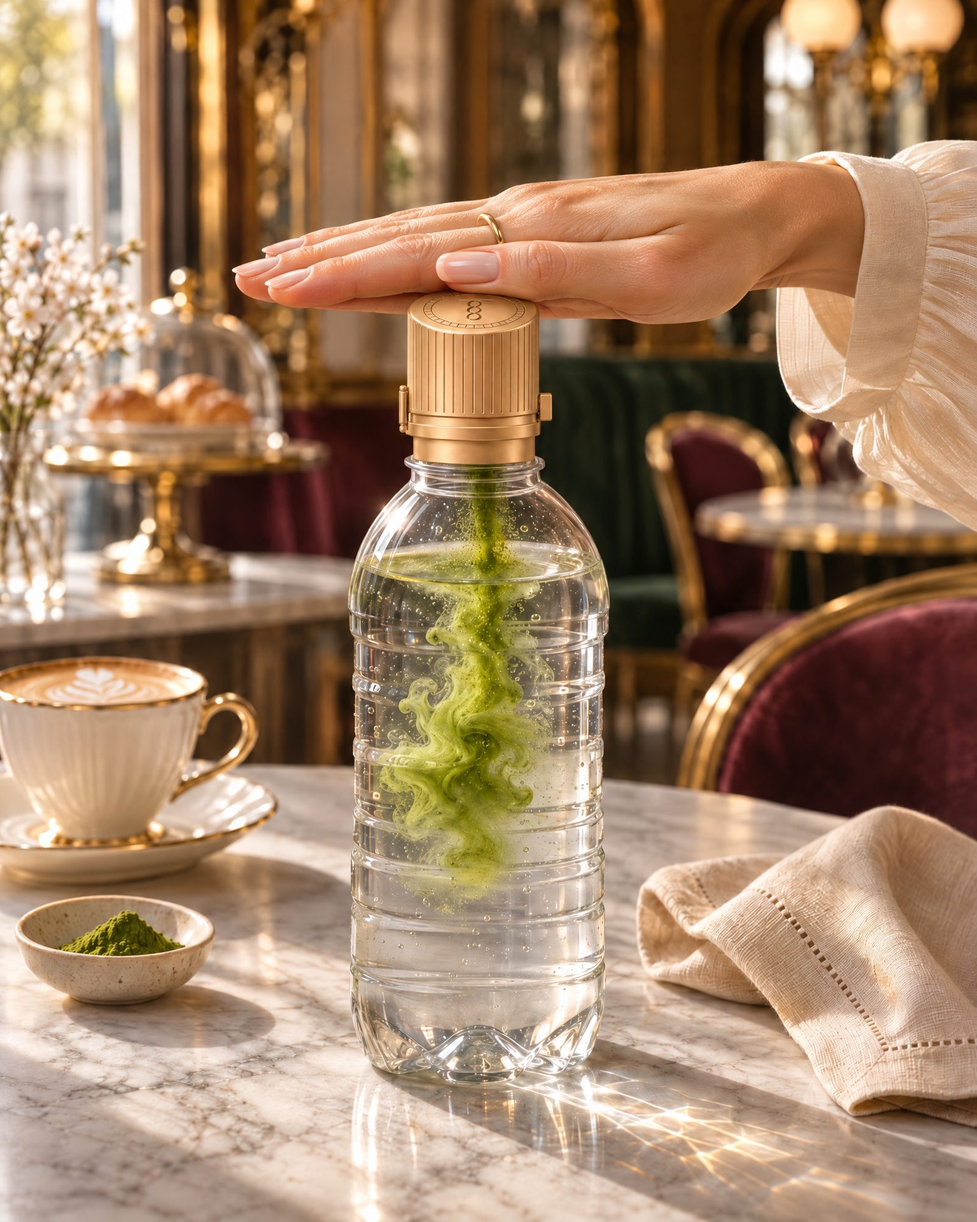
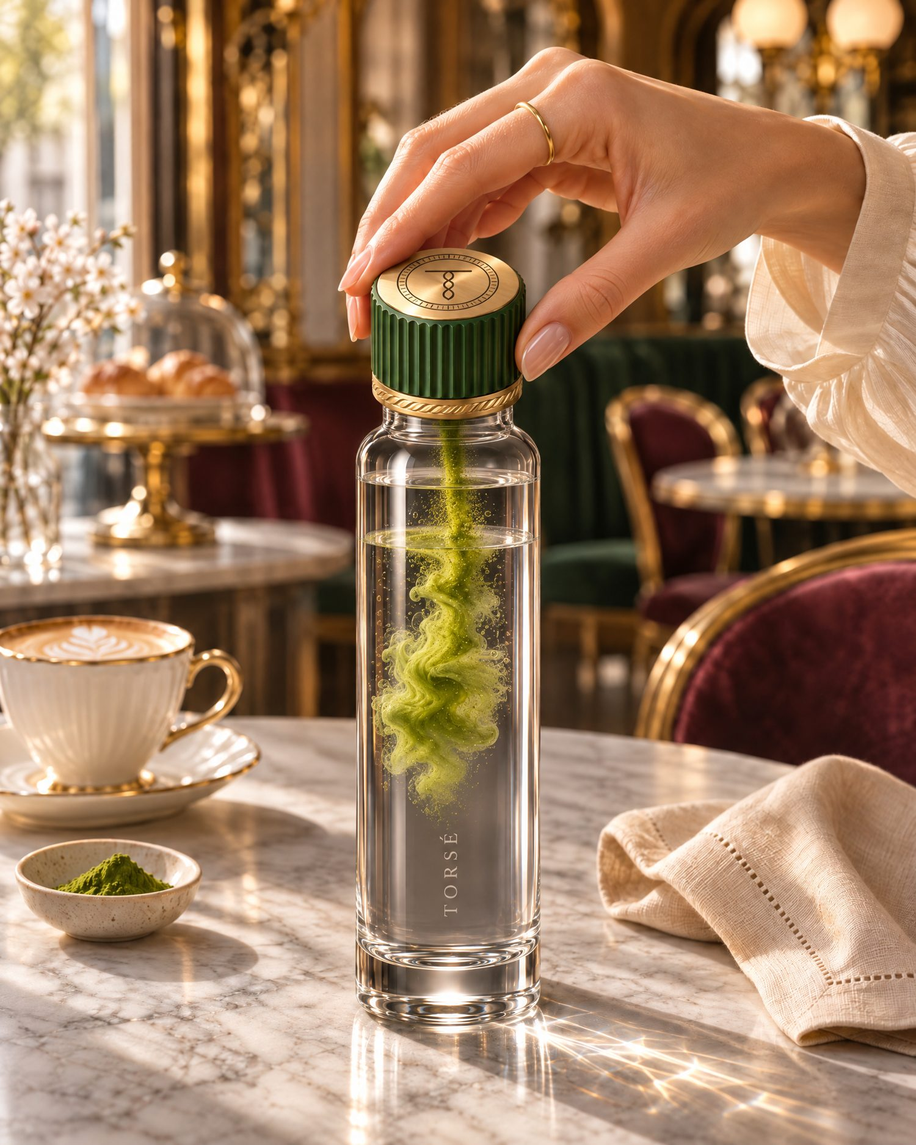
TORSÉ-Shop wieder auf die ursprüngliche Schraubkappe
Das Kronensystem mit Espresso-Kapseln wird eine eigene Marke (VERMEIL)
mit eigenem Shop. Dieser Shop zeigt wieder das Original-Sortiment.

This reverts commit b9a5d01.

Claude-Session: https://claude.ai/code/session_01NizjhzH8RztRbZnBNBkn2N

diff --git a/index.html b/index.html
@@ -3,11 +3,11 @@
 <head>
 <meta charset="utf-8">
 <meta name="viewport" content="width=device-width, initial-scale=1, viewport-fit=cover">
-<meta name="description" content="TORSÉ – goldene Krone und Kapseln mit Ceremonial-Matcha, Yuzu und Sakura für stilles Wasser. Ein Dreh. Ein Ritual.">
+<meta name="description" content="TORSÉ – Kapseln mit Ceremonial-Matcha, Yuzu und Sakura für stilles Wasser. Ein Dreh. Ein Ritual.">
 <meta name="theme-color" content="#ffffff">
 <link rel="icon" href="/favicon.svg" type="image/svg+xml">
 <meta property="og:title" content="TORSÉ Boutique">
-<meta property="og:description" content="Ein Dreh. Ein Ritual. Krone und Kapseln für stilles Wasser.">
+<meta property="og:description" content="Ein Dreh. Ein Ritual. Kapseln für stilles Wasser.">
 <meta property="og:image" content="/images/hero.jpg">
 <title>TORSÉ Boutique</title>
 <link rel="preconnect" href="https://fonts.googleapis.com">
@@ -321,7 +321,6 @@ footer.site { background: var(--soft); padding-block: 64px 32px; font-size: 14px
 </style>
 </head>
 <body>
-
 <div class="demo gut">Vorschau · Demo-Shop, es werden keine echten Bestellungen ausgelöst</div>
 
 <header class="site gut">
@@ -331,7 +330,7 @@ footer.site { background: var(--soft); padding-block: 64px 32px; font-size: 14px
       <nav class="nav" aria-label="Hauptnavigation">
         <a href="#shop" data-nav="shop">Kollektion</a>
         <a href="#ritual" data-nav="ritual">Das Ritual</a>
-        <a href="#flasche" data-nav="flasche">Krone &amp; Set</a>
+        <a href="#flasche" data-nav="flasche">Flasche &amp; Starter Set</a>
         <a href="#club" data-nav="club">Club</a>
       </nav>
       <div class="hright">
@@ -342,7 +341,7 @@ footer.site { background: var(--soft); padding-block: 64px 32px; font-size: 14px
       </div>
     </div>
     <nav class="mnav" id="mnav" hidden aria-label="Mobile Navigation">
-      <a href="#shop">Kollektion</a><a href="#ritual">Das Ritual</a><a href="#flasche">Krone &amp; Set</a><a href="#club">Club</a>
+      <a href="#shop">Kollektion</a><a href="#ritual">Das Ritual</a><a href="#flasche">Flasche &amp; Starter Set</a><a href="#club">Club</a>
     </nav>
   </div>
 </header>
@@ -351,12 +350,12 @@ footer.site { background: var(--soft); padding-block: 64px 32px; font-size: 14px
 <section class="view" data-view="home">
   <div class="hero">
     <div class="hero-banner">
-      <img src="/images/hero.jpg" alt="Drei TORSÉ-Flaschen mit goldenen Kronen und Kapseln auf hellen Sockeln in Salbeigrün">
+      <img src="/images/hero.jpg" alt="Drei TORSÉ-Flaschen und drei Kapseln auf hellen Sockeln in Salbeigrün">
       <div class="hero-copy">
         <span class="label">Neu · Für stilles Wasser</span>
         <h1>Ein Dreh.<br><em>Ein Ritual.</em></h1>
-        <p>Ceremonial-Matcha, Yuzu oder Sakura in farbigen Kapseln, dazu die goldene Krone für jede Flasche stilles Wasser von 0,33 bis 0,5 l. Einlegen, aufschrauben, drücken, schütteln.</p>
-        <div class="ctas"><a class="btn dark" href="#shop">Kollektion entdecken</a><button class="btn line" data-open="set">Krone &amp; Flasche · 89 €</button></div>
+        <p>Ceremonial-Matcha, Yuzu oder Sakura in einer Kapsel aus Gold. Aufschrauben, drehen, schütteln, auf jeder Flasche stilles Wasser von 0,33 bis 0,5 l.</p>
+        <div class="ctas"><a class="btn dark" href="#shop">Kollektion entdecken</a><button class="btn line" data-open="starter">Starter Set · 39 €</button></div>
       </div>
     </div>
   </div>
@@ -364,9 +363,9 @@ footer.site { background: var(--soft); padding-block: 64px 32px; font-size: 14px
   <div class="sec gut">
     <div class="wrap">
       <div class="tiles">
-        <button class="tile t-sage" data-cat-go="kapseln"><span class="tl">Kapseln<small>Standard und Large</small></span><img src="/images/kapseln-krone.webp" alt=""></button>
-        <button class="tile t-ivory" data-cat-go="krone"><span class="tl">Die Krone<small>Klappverschluss in Gold</small></span><img src="/images/krone.webp" alt=""></button>
-        <button class="tile t-blush" data-open="set"><span class="tl">Krone &amp; Flasche<small>Set in der Onyx-Box</small></span><img src="/images/set-krone-flasche.webp" alt=""></button>
+        <button class="tile t-sage" data-cat-go="kapseln"><span class="tl">Kapseln<small>Standard und Large</small></span><img src="/images/kapseln-trio.webp" alt=""></button>
+        <button class="tile t-ivory" data-cat-go="flasche"><span class="tl">Flasche &amp; Starter Set<small>500 ml Kristallglas</small></span><img src="/images/starter-set.webp" alt=""></button>
+        <button class="tile t-blush" data-cat-go="zubehoer"><span class="tl">Zubehör<small>Carrousel und Travel Clip</small></span><img src="/images/carrousel.webp" alt=""></button>
       </div>
     </div>
   </div>
@@ -380,9 +379,9 @@ footer.site { background: var(--soft); padding-block: 64px 32px; font-size: 14px
 
   <div class="sec soft gut">
     <div class="wrap flavors">
-      <div class="fpanel"><img src="/images/kapseln-krone.webp" alt="Die drei TORSÉ-Kapseln in Jade, Yuzu und Sakura neben der goldenen Krone"></div>
+      <div class="fpanel"><img src="/images/kapseln-trio.webp" alt="Die drei TORSÉ-Kapseln in Jade, Yuzu-Gold und Sakura-Rosé"></div>
       <div>
-        <div class="sec-head"><span class="label">Die Kollektion</span><h2>Drei Sorten, drei Farben</h2><p>Jede Sorte hat ihre Farbe, die ganze Kapsel ist darin bedruckt. Die Intensität steht auf jeder Box.</p></div>
+        <div class="sec-head"><span class="label">Die Kollektion</span><h2>Drei Sorten, drei Farben</h2><p>Jede Sorte hat ihre Farbe. Die Intensität steht auf jeder Kapsel.</p></div>
         <div class="flist">
           <button class="fl" data-shopflavor="matcha"><span class="dot" style="background:var(--jade)"></span><span><span class="no">N°1 · Intensität 8</span><h3>Uji Matcha</h3><p>Ceremonial Grade aus Kyoto. Umami und frisches Gras.</p></span><span class="arrow">→</span></button>
           <button class="fl" data-shopflavor="yuzu"><span class="dot" style="background:var(--yuzu)"></span><span><span class="no">N°2 · Intensität 5</span><h3>Yuzu &amp; Ingwer</h3><p>Japanische Yuzu, ein Hauch Ingwer, ohne Zucker.</p></span><span class="arrow">→</span></button>
@@ -394,29 +393,29 @@ footer.site { background: var(--soft); padding-block: 64px 32px; font-size: 14px
 
   <div class="sec gut">
     <div class="wrap ritual">
-      <img src="/images/ritual-kaffeehaus.jpg" alt="Eine Hand drückt die goldene TORSÉ-Krone auf einer Flasche Wasser im Wiener Kaffeehaus">
+      <img src="/images/ritual-kaffeehaus.jpg" alt="Eine Hand dreht die TORSÉ-Kapsel auf der TORSÉ-Flasche im Wiener Kaffeehaus">
       <div>
         <div class="sec-head"><span class="label">Das Ritual</span><h2>Vier Bewegungen, zehn Sekunden</h2></div>
         <div class="steps">
-          <div class="step"><span class="k">I</span><b>Einlegen</b><span>Krone aufklappen, Kapsel mit der Folie nach oben einlegen.</span></div>
-          <div class="step"><span class="k">II</span><b>Zuklappen</b><span>Die Haube klickt ein. Dann auf jede Flasche stilles Wasser schrauben, 0,33 bis 0,5 l.</span></div>
-          <div class="step"><span class="k">III</span><b>Drücken</b><span>Mit der Handfläche auf die Krone drücken. Das Pulver fällt ins Wasser.</span></div>
+          <div class="step"><span class="k">I</span><b>Abziehen</b><span>Die goldene Schutzfolie abziehen.</span></div>
+          <div class="step"><span class="k">II</span><b>Aufschrauben</b><span>Auf jede Flasche stilles Wasser, 0,33 bis 0,5 l.</span></div>
+          <div class="step"><span class="k">III</span><b>Drehen</b><span>Eine Vierteldrehung öffnet das Siegel.</span></div>
           <div class="step"><span class="k">IV</span><b>Schütteln</b><span>Zehn Sekunden schütteln und genießen.</span></div>
         </div>
-        <p class="water">Nur für stilles Wasser. In Sprudel schäumt die Füllung beim Schütteln auf. Bei offener Haube sind die Öffner gesperrt und verdeckt.</p>
+        <p class="water">Nur für stilles Wasser. In Sprudel schäumt die Füllung beim Schütteln auf.</p>
       </div>
     </div>
   </div>
 
   <div class="sec gut" style="padding-top:0">
     <div class="wrap bottle-sec">
-      <div class="bpanel"><img src="/images/krone.webp" alt="Die goldene TORSÉ-Krone in der Onyx-Box, freigestellt"></div>
+      <div class="bpanel"><img src="/images/flasche.webp" alt="Die TORSÉ-Flasche, freigestellt"></div>
       <div class="bottle-copy">
-        <span class="label">Die Krone</span>
-        <h2>Ein Verschluss aus Gold</h2>
-        <p class="muted" style="font-size:16.5px;max-width:52ch">Einmal kaufen, jahrelang benutzen. Die Krone ist aus Aluminium in Champagner-Gold, nur graviert, und passt auf jede Flasche stilles Wasser von 0,33 bis 0,5 l. Die Kapseln kaufen Sie nach.</p>
-        <div class="facts"><div><b>Ø 44 mm</b><span>Durchmesser</span></div><div><b>4,5 mm</b><span>Hub beim Drücken</span></div><div><b>26/22</b><span>Gewinde</span></div></div>
-        <div class="ctas"><button class="btn dark" data-open="krone">Krone · 69 €</button><button class="btn line" data-open="set">Mit Flasche · 89 €</button></div>
+        <span class="label">Die Flasche</span>
+        <h2>Eine Säule aus Kristallglas</h2>
+        <p class="muted" style="font-size:16.5px;max-width:52ch">Schlank, gerade und schwer, wie das Mineralwasser eines Grandhotels. Der dicke Boden bricht das Licht, der Schriftzug ist eingeätzt. Jede TORSÉ-Kapsel passt darauf.</p>
+        <div class="facts"><div><b>500 ml</b><span>Inhalt</span></div><div><b>23 cm</b><span>Höhe</span></div><div><b>26/22</b><span>Gewinde</span></div></div>
+        <div class="ctas"><button class="btn dark" data-open="flasche">Flasche · 29 €</button><button class="btn line" data-open="starter">Starter Set · 39 €</button></div>
       </div>
     </div>
   </div>
@@ -427,7 +426,7 @@ footer.site { background: var(--soft); padding-block: 64px 32px; font-size: 14px
       <div class="cc">
         <span class="label">Club TORSÉ</span>
         <h2>Ihre Sorte, jeden Monat</h2>
-        <ul><li>Large-Box mit 30 Kapseln, 1,80 € pro Kapsel</li><li>Die Krone für 29 € zum Start</li><li>Versandkostenfrei, jederzeit pausieren</li></ul>
+        <ul><li>Large-Box mit 30 Kapseln, 1,80 € pro Kapsel</li><li>Saison-Editionen vor allen anderen</li><li>Versandkostenfrei, jederzeit pausieren</li></ul>
         <div class="ctas"><button class="btn dark" data-open="large-matcha">Large im Abo</button><a class="btn line" href="#club">Mehr erfahren</a></div>
       </div>
     </div>
@@ -437,7 +436,7 @@ footer.site { background: var(--soft); padding-block: 64px 32px; font-size: 14px
     <div class="wrap usps">
       <div class="usp"><b>Versandkostenfrei ab 49 €</b><span>Lieferung in 2 bis 3 Werktagen aus Wien</span></div>
       <div class="usp"><b>Passt auf 0,33–0,5 l</b><span>Stilles Wasser mit 26/22-Hals</span></div>
-      <div class="usp"><b>Reines Aluminium</b><span>Leere Kapseln in die Metallsammlung</span></div>
+      <div class="usp"><b>Hülsen zurückgeben</b><span>Club-Punkte für jede Aluminiumhülse</span></div>
       <div class="usp"><b>Sicher bezahlen</b><span>Karte, eps, PayPal, Apple Pay</span></div>
     </div>
   </div>
@@ -445,12 +444,13 @@ footer.site { background: var(--soft); padding-block: 64px 32px; font-size: 14px
 
 <section class="view gut" data-view="shop" hidden>
   <div class="wrap">
-    <div class="shop-head"><h1>Die Kollektion</h1><p class="muted" style="font-size:16.5px;max-width:62ch">Kapseln in jeder Sorte, die goldene Krone und das Set mit der TORSÉ-Flasche. Die Kapseln legt man in die Krone, sie passt auf stilles Wasser in Flaschen von 0,33 bis 0,5 l.</p></div>
+    <div class="shop-head"><h1>Die Kollektion</h1><p class="muted" style="font-size:16.5px;max-width:62ch">Kapseln in jeder Sorte, die TORSÉ-Flasche und Zubehör. Alle Kapseln sind für stilles Wasser in Flaschen von 0,33 bis 0,5 l.</p></div>
     <div class="filters" role="group" aria-label="Filter">
       <div class="grp" id="catChips">
         <button class="chip on" data-cat="all">Alle</button>
         <button class="chip" data-cat="kapseln">Kapseln</button>
-        <button class="chip" data-cat="krone">Krone &amp; Set</button>
+        <button class="chip" data-cat="flasche">Flasche &amp; Set</button>
+        <button class="chip" data-cat="zubehoer">Zubehör</button>
       </div>
       <span class="sep" aria-hidden="true"></span>
       <div class="grp" id="flavChips">
@@ -485,7 +485,7 @@ footer.site { background: var(--soft); padding-block: 64px 32px; font-size: 14px
         <div class="perks"><span>Versandkostenfrei ab 49 €</span><span>Lieferung in 2 bis 3 Werktagen</span><span>Für stilles Wasser, 0,33–0,5 l</span><span>30 Tage Rückgabe</span></div>
         <div>
           <details class="acc" open><summary>Details</summary><dl id="pDetails"></dl></details>
-          <details class="acc"><summary>Für welche Flaschen?</summary><p>Die Kapseln kommen in die TORSÉ-Krone. Die Krone passt auf PET-Flaschen mit stillem Wasser von 0,33 bis 0,5 l mit dem verbreiteten 26/22-Hals und auf die TORSÉ-Flasche. Nicht für Sprudel geeignet.</p></details>
+          <details class="acc"><summary>Für welche Flaschen?</summary><p>Alle TORSÉ-Kapseln passen auf PET-Flaschen mit stillem Wasser von 0,33 bis 0,5 l mit dem verbreiteten 26/22-Hals, und auf die TORSÉ-Flasche. Nicht für Sprudel geeignet.</p></details>
           <details class="acc"><summary>Versand &amp; Rückgabe</summary><p>Versand aus Wien innerhalb Österreichs und der EU. Ungeöffnete Ware kann 30 Tage lang zurückgegeben werden.</p></details>
         </div>
       </div>
@@ -496,13 +496,13 @@ footer.site { background: var(--soft); padding-block: 64px 32px; font-size: 14px
 <section class="view" data-view="ritual" hidden>
   <div class="sec gut">
     <div class="wrap ritual">
-      <img src="/images/krone-aufbau.jpg" alt="Aufbau der TORSÉ-Krone mit Kapsel" style="background:var(--soft)">
+      <img src="/images/kapsel-aufbau.jpg" alt="Aufbau der TORSÉ-Kapsel" style="background:var(--soft)">
       <div>
-        <div class="sec-head"><span class="label">Das Ritual</span><h2>Was in der Krone steckt</h2><p>Haube und Unterteil aus Aluminium in Champagner-Gold, nur graviert. Innen liegt ein Federdeckel über stumpfen Öffnern, gesperrt, solange die Haube offen ist. Die Kapsel aus reinem Aluminium bleibt luftdicht, bis Sie drücken.</p></div>
+        <div class="sec-head"><span class="label">Das Ritual</span><h2>Was in der Kapsel steckt</h2><p>Ein Deckel aus gebürstetem Aluminium mit unserem Monogramm, eine eloxierte Hülse in der Sortenfarbe und darunter eine luftdichte Kammer. Darin bleibt die Füllung frisch, bis Sie drehen.</p></div>
         <div class="steps">
-          <div class="step"><span class="k">I</span><b>Einlegen</b><span>Krone aufklappen, Kapsel mit der Folie nach oben einlegen.</span></div>
-          <div class="step"><span class="k">II</span><b>Zuklappen</b><span>Die Haube klickt ein. Dann auf jede Flasche stilles Wasser schrauben, 0,33 bis 0,5 l.</span></div>
-          <div class="step"><span class="k">III</span><b>Drücken</b><span>Mit der Handfläche auf die Krone drücken. Das Pulver fällt ins Wasser.</span></div>
+          <div class="step"><span class="k">I</span><b>Abziehen</b><span>Die goldene Schutzfolie abziehen.</span></div>
+          <div class="step"><span class="k">II</span><b>Aufschrauben</b><span>Auf jede Flasche stilles Wasser, 0,33 bis 0,5 l.</span></div>
+          <div class="step"><span class="k">III</span><b>Drehen</b><span>Der Schneidstern öffnet das Siegel.</span></div>
           <div class="step"><span class="k">IV</span><b>Schütteln</b><span>Zehn Sekunden schütteln und genießen.</span></div>
         </div>
         <div class="ctas" style="margin-top:28px"><a class="btn dark" href="#shop">Zur Kollektion</a></div>
@@ -511,8 +511,8 @@ footer.site { background: var(--soft); padding-block: 64px 32px; font-size: 14px
   </div>
   <div class="sec soft gut">
     <div class="wrap ritual">
-      <div class="sec-head" style="margin:0"><span class="label">Im Kaffeehaus, im Büro, unterwegs</span><h2>Überall, wo es stilles Wasser gibt</h2><p>Die Krone passt auf die TORSÉ-Flasche und auf die üblichen 0,33- und 0,5-l-Flaschen mit stillem Wasser. Krone und ein paar Kapseln passen in jede Tasche.</p><div class="ctas" style="margin-top:12px"><button class="btn dark" data-open="krone">Krone · 69 €</button></div></div>
-      <img src="/images/kollektion-flaschen.jpg" alt="Drei TORSÉ-Flaschen mit goldenen Kronen, Wasser in Jade, Gold und Rosé" style="aspect-ratio:16/10">
+      <div class="sec-head" style="margin:0"><span class="label">Im Kaffeehaus, im Büro, unterwegs</span><h2>Überall, wo es stilles Wasser gibt</h2><p>Die Kapsel passt auf die TORSÉ-Flasche und auf die üblichen 0,33- und 0,5-l-Flaschen mit stillem Wasser. Mit dem Travel Clip haben Sie drei Kapseln immer dabei.</p><div class="ctas" style="margin-top:12px"><button class="btn dark" data-open="travel-clip">Travel Clip · 39 €</button></div></div>
+      <img src="/images/kollektion-flaschen.jpg" alt="Drei TORSÉ-Flaschen mit Wasser in Jade, Gold und Rosé" style="aspect-ratio:16/10">
     </div>
   </div>
 </section>
@@ -520,25 +520,25 @@ footer.site { background: var(--soft); padding-block: 64px 32px; font-size: 14px
 <section class="view" data-view="flasche" hidden>
   <div class="sec gut">
     <div class="wrap bottle-sec">
-      <div class="bpanel"><img src="/images/krone.webp" alt="Die goldene TORSÉ-Krone"></div>
+      <div class="bpanel"><img src="/images/flasche.webp" alt="Die TORSÉ-Flasche"></div>
       <div class="bottle-copy">
-        <span class="label">Die Krone</span>
-        <h1 style="font-size:clamp(36px,4.6vw,58px);line-height:1.04">Der goldene Klappverschluss</h1>
-        <p class="muted" style="font-size:16.5px;max-width:52ch">Aufklappen, Kapsel einlegen, zuklappen, aufschrauben, drücken. Die Haube ist der Knopf, ein poliertes Band zeigt, ob die Kapsel schon geöffnet ist. Bei offener Haube sind die Öffner gesperrt.</p>
-        <div class="facts"><div><b>Ø 44 mm</b><span>Durchmesser</span></div><div><b>58,8 mm</b><span>Höhe</span></div><div><b>26/22</b><span>Gewinde</span></div></div>
-        <div class="ctas"><button class="btn dark" data-open="krone">Krone · 69 €</button><button class="btn line" data-open="verschluss">Schraubverschluss · 19 €</button></div>
+        <span class="label">Die Flasche</span>
+        <h1 style="font-size:clamp(36px,4.6vw,58px);line-height:1.04">Eine Säule aus Kristallglas</h1>
+        <p class="muted" style="font-size:16.5px;max-width:52ch">Schlank, gerade und schwer. Der dicke Boden bricht das Licht, der Schriftzug ist senkrecht eingeätzt, am Boden sitzt das Monogramm.</p>
+        <div class="facts"><div><b>500 ml</b><span>Inhalt</span></div><div><b>23 × 6,5</b><span>cm, H × Ø</span></div><div><b>26/22</b><span>passt zu jeder Kapsel</span></div></div>
+        <div class="ctas"><button class="btn dark" data-open="flasche">Flasche · 29 €</button></div>
       </div>
     </div>
   </div>
   <div class="sec soft gut">
     <div class="wrap bottle-sec" style="grid-template-columns:minmax(0,1.1fr) minmax(0,0.9fr)">
       <div class="bottle-copy">
-        <span class="label">Set</span>
-        <h2>Krone und Flasche</h2>
-        <p class="muted" style="font-size:16.5px;max-width:52ch">Die goldene Krone und die TORSÉ-Flasche, eine schlanke Säule aus dickem Glas mit eingeätztem Schriftzug, in der Onyx-Box. Die Flasche gibt es nur in diesem Set.</p>
-        <div class="ctas"><button class="btn dark" data-open="set">Set · 89 €</button></div>
+        <span class="label">Starter Set</span>
+        <h2>Flasche und neun Kapseln</h2>
+        <p class="muted" style="font-size:16.5px;max-width:52ch">Die TORSÉ-Flasche mit je drei Kapseln jeder Sorte, in der Onyx-Box. Der schönste Einstieg und ein Geschenk, das man nicht vergisst.</p>
+        <div class="ctas"><button class="btn dark" data-open="starter">Starter Set · 39 €</button></div>
       </div>
-      <div class="bpanel" style="background:var(--white);aspect-ratio:4/3"><img src="/images/set-krone-flasche.webp" alt="Set aus Krone und Flasche"></div>
+      <div class="bpanel" style="background:var(--white);aspect-ratio:4/3"><img src="/images/starter-set.webp" alt="Starter Set"></div>
     </div>
   </div>
 </section>
@@ -551,7 +551,7 @@ footer.site { background: var(--soft); padding-block: 64px 32px; font-size: 14px
         <span class="label">Club TORSÉ</span>
         <h1 style="font-size:clamp(34px,4.4vw,54px);line-height:1.04">Ihre Sorte, jeden Monat</h1>
         <p class="muted" style="font-size:16.5px">Wählen Sie Ihre Sorte, wir schicken jeden Monat eine Large-Box mit 30 Kapseln. Sie können jederzeit wechseln, pausieren oder kündigen.</p>
-        <ul><li>1,80 € pro Kapsel statt 2,20 €</li><li>Die Krone für 29 € zum Start</li><li>Saison-Editionen vor allen anderen</li><li>Versandkostenfrei</li></ul>
+        <ul><li>1,80 € pro Kapsel statt 2,20 €</li><li>Saison-Editionen vor allen anderen</li><li>Versandkostenfrei</li><li>Hülsen zurückschicken und Punkte sammeln</li></ul>
         <div class="ctas"><button class="btn dark" data-open="large-matcha">Matcha</button><button class="btn line" data-open="large-yuzu">Yuzu</button><button class="btn line" data-open="large-sakura">Sakura</button></div>
       </div>
     </div>
@@ -608,11 +608,11 @@ footer.site { background: var(--soft); padding-block: 64px 32px; font-size: 14px
     <div class="fgrid">
       <div>
         <a class="brand" href="#home"><svg class="mono" viewBox="0 0 120 120" role="img" aria-label="TORSÉ Monogramm"><g fill="none" stroke="currentColor" stroke-linecap="round"><circle cx="60" cy="60" r="57.5" stroke-width="1"/><g stroke-width="0.8"><line x1="111.00" y1="60.00" x2="115.50" y2="60.00"/><line x1="110.56" y1="66.66" x2="115.03" y2="67.24"/><line x1="109.26" y1="73.20" x2="113.61" y2="74.36"/><line x1="107.12" y1="79.52" x2="111.28" y2="81.24"/><line x1="104.17" y1="85.50" x2="108.06" y2="87.75"/><line x1="100.46" y1="91.05" x2="104.03" y2="93.79"/><line x1="96.06" y1="96.06" x2="99.24" y2="99.24"/><line x1="91.05" y1="100.46" x2="93.79" y2="104.03"/><line x1="85.50" y1="104.17" x2="87.75" y2="108.06"/><line x1="79.52" y1="107.12" x2="81.24" y2="111.28"/><line x1="73.20" y1="109.26" x2="74.36" y2="113.61"/><line x1="66.66" y1="110.56" x2="67.24" y2="115.03"/><line x1="60.00" y1="111.00" x2="60.00" y2="115.50"/><line x1="53.34" y1="110.56" x2="52.76" y2="115.03"/><line x1="46.80" y1="109.26" x2="45.64" y2="113.61"/><line x1="40.48" y1="107.12" x2="38.76" y2="111.28"/><line x1="34.50" y1="104.17" x2="32.25" y2="108.06"/><line x1="28.95" y1="100.46" x2="26.21" y2="104.03"/><line x1="23.94" y1="96.06" x2="20.76" y2="99.24"/><line x1="19.54" y1="91.05" x2="15.97" y2="93.79"/><line x1="15.83" y1="85.50" x2="11.94" y2="87.75"/><line x1="12.88" y1="79.52" x2="8.72" y2="81.24"/><line x1="10.74" y1="73.20" x2="6.39" y2="74.36"/><line x1="9.44" y1="66.66" x2="4.97" y2="67.24"/><line x1="9.00" y1="60.00" x2="4.50" y2="60.00"/><line x1="9.44" y1="53.34" x2="4.97" y2="52.76"/><line x1="10.74" y1="46.80" x2="6.39" y2="45.64"/><line x1="12.88" y1="40.48" x2="8.72" y2="38.76"/><line x1="15.83" y1="34.50" x2="11.94" y2="32.25"/><line x1="19.54" y1="28.95" x2="15.97" y2="26.21"/><line x1="23.94" y1="23.94" x2="20.76" y2="20.76"/><line x1="28.95" y1="19.54" x2="26.21" y2="15.97"/><line x1="34.50" y1="15.83" x2="32.25" y2="11.94"/><line x1="40.48" y1="12.88" x2="38.76" y2="8.72"/><line x1="46.80" y1="10.74" x2="45.64" y2="6.39"/><line x1="53.34" y1="9.44" x2="52.76" y2="4.97"/><line x1="60.00" y1="9.00" x2="60.00" y2="4.50"/><line x1="66.66" y1="9.44" x2="67.24" y2="4.97"/><line x1="73.20" y1="10.74" x2="74.36" y2="6.39"/><line x1="79.52" y1="12.88" x2="81.24" y2="8.72"/><line x1="85.50" y1="15.83" x2="87.75" y2="11.94"/><line x1="91.05" y1="19.54" x2="93.79" y2="15.97"/><line x1="96.06" y1="23.94" x2="99.24" y2="20.76"/><line x1="100.46" y1="28.95" x2="104.03" y2="26.21"/><line x1="104.17" y1="34.50" x2="108.06" y2="32.25"/><line x1="107.12" y1="40.48" x2="111.28" y2="38.76"/><line x1="109.26" y1="46.80" x2="113.61" y2="45.64"/><line x1="110.56" y1="53.34" x2="115.03" y2="52.76"/></g><circle cx="60" cy="60" r="48.5" stroke-width="0.8"/><path d="M36 40 H84" stroke-width="3.2"/><path d="M60 40 C67 46 67 52 60 58 C53 64 53 70 60 76 C67 82 67 88 60 92" stroke-width="2.4"/><path d="M60 40 C53 46 53 52 60 58 C67 64 67 70 60 76 C53 82 53 88 60 92" stroke-width="2.4"/></g></svg><span>TORSÉ</span></a>
-        <p style="margin-top:12px">Rituel de l'eau. Krone und Kapseln für stilles Wasser, gestaltet in Wien.</p>
+        <p style="margin-top:12px">Rituel de l'eau. Kapseln für stilles Wasser, gestaltet in Wien.</p>
         <form class="news" id="newsForm"><label for="n-mail" style="position:absolute;left:-9999px">E-Mail für Newsletter</label><input id="n-mail" type="email" placeholder="E-Mail für Neuigkeiten"><button type="submit">Anmelden</button></form>
       </div>
-      <div><h4>Kollektion</h4><ul><li><button data-open="standard-matcha">N°1 Uji Matcha</button></li><li><button data-open="standard-yuzu">N°2 Yuzu</button></li><li><button data-open="standard-sakura">N°3 Sakura</button></li><li><button data-open="krone">Die Krone</button></li></ul></div>
-      <div><h4>Entdecken</h4><ul><li><a href="#ritual">Das Ritual</a></li><li><a href="#club">Club TORSÉ</a></li><li><a href="#flasche">Krone &amp; Set</a></li></ul></div>
+      <div><h4>Kollektion</h4><ul><li><button data-open="standard-matcha">N°1 Uji Matcha</button></li><li><button data-open="standard-yuzu">N°2 Yuzu</button></li><li><button data-open="standard-sakura">N°3 Sakura</button></li><li><button data-open="flasche">Die Flasche</button></li></ul></div>
+      <div><h4>Entdecken</h4><ul><li><a href="#ritual">Das Ritual</a></li><li><a href="#club">Club TORSÉ</a></li><li><a href="#flasche">Starter Set</a></li></ul></div>
       <div><h4>Service</h4><ul><li><span>Versand &amp; Rückgabe</span></li><li><span>Passende Flaschen: 0,33–0,5 l, still</span></li><li><span>Boutique Wien, 1. Bezirk</span></li></ul></div>
     </div>
     <div class="fbottom"><span>© 2026 TORSÉ · Konzept und Demo-Shop</span><span>Impressum · Datenschutz · AGB</span></div>
@@ -641,7 +641,7 @@ footer.site { background: var(--soft); padding-block: 64px 32px; font-size: 14px
 </div>
 <div class="toast" id="toast" role="status" aria-live="polite"></div>
 
-<script>window.__IMG={"c_std1": "/images/standard-matcha.webp", "c_std2": "/images/standard-yuzu.webp", "c_std3": "/images/standard-sakura.webp", "c_lg1": "/images/large-matcha.webp", "c_lg2": "/images/large-yuzu.webp", "c_lg3": "/images/large-sakura.webp", "c_trio": "/images/kapseln-krone.webp", "c_crown": "/images/krone.webp", "c_set": "/images/set-krone-flasche.webp", "c_cap": "/images/schraubverschluss.webp", "hero": "/images/hero.jpg", "club": "/images/club.jpg", "hand": "/images/ritual-kaffeehaus.jpg", "b2": "/images/kollektion-flaschen.jpg", "exploded": "/images/krone-aufbau.jpg", "outer": "/images/aussenverpackung.jpg", "crownbox": "/images/krone-box.jpg", "bottlehero": "/images/flasche-mit-krone.jpg", "capscene": "/images/schraubverschluss-szene.jpg"};</script>
+<script>window.__IMG={"c_std1": "/images/standard-matcha.webp", "c_std2": "/images/standard-yuzu.webp", "c_std3": "/images/standard-sakura.webp", "c_lg1": "/images/large-matcha.webp", "c_lg2": "/images/large-yuzu.webp", "c_lg3": "/images/large-sakura.webp", "c_bottle": "/images/flasche.webp", "c_starter": "/images/starter-set.webp", "c_car": "/images/carrousel.webp", "c_clip": "/images/travel-clip.webp", "c_trio": "/images/kapseln-trio.webp", "hero": "/images/hero.jpg", "club": "/images/club.jpg", "hand": "/images/ritual-kaffeehaus.jpg", "b2": "/images/kollektion-flaschen.jpg", "exploded": "/images/kapsel-aufbau.jpg", "outer": "/images/aussenverpackung.jpg"};</script>
 <script>
 (function(){
 const A = window.__IMG;
@@ -652,16 +652,18 @@ const P = {};
 function add(id,o){P[id]=Object.assign({id},o);}
 [["matcha","c_std1","c_lg1"],["yuzu","c_std2","c_lg2"],["sakura","c_std3","c_lg3"]].forEach(([f,s,l])=>{
   add("standard-"+f,{fam:"standard",cat:"kapseln",flav:f,name:"Standard · "+FL[f].n,short:"Standard · "+FL[f].n.replace(/^N°\d /,""),sub:"10 Kapseln",price:22,per:"2,20 € pro Kapsel",img:s,gal:[s,"c_trio","hand","outer"],
-    desc:"Zehn Kapseln einer Sorte in der kompakten Box aus Recyclingkarton in der Sortenfarbe.",det:[["Inhalt","10 Kapseln, je eine Portion"],["Sorte",FL[f].n],["Passend für","die TORSÉ-Krone"],["Verpackung","Klappbox, Fasergusseinlage, Goldprägung"]]});
+    desc:"Zehn Kapseln einer Sorte in der kompakten Box aus Recyclingkarton in der Sortenfarbe.",det:[["Inhalt","10 Kapseln, je eine Portion"],["Sorte",FL[f].n],["Passend für","stilles Wasser, 0,33–0,5 l"],["Verpackung","Klappbox, Fasergusseinlage, Goldprägung"]]});
   add("large-"+f,{fam:"large",cat:"kapseln",flav:f,name:"Large · "+FL[f].n,short:"Large · "+FL[f].n.replace(/^N°\d /,""),sub:"30 Kapseln",price:54,per:"1,80 € pro Kapsel",img:l,gal:[l,"c_trio","club","outer"],badge:"Auch im Abo",
-    desc:"Dreißig Kapseln, immer eine Sorte pro Box. Passt in den Briefkasten und gibt es auch monatlich im Club.",det:[["Inhalt","30 Kapseln"],["Sorte",FL[f].n],["Passend für","die TORSÉ-Krone"],["Verpackung","Klappbox, Fasergusseinlage, Goldprägung"]]});
+    desc:"Dreißig Kapseln, immer eine Sorte pro Box. Passt in den Briefkasten und gibt es auch monatlich im Club.",det:[["Inhalt","30 Kapseln"],["Sorte",FL[f].n],["Passend für","stilles Wasser, 0,33–0,5 l"],["Verpackung","Klappbox, Fasergusseinlage, Goldprägung"]]});
 });
-add("krone",{fam:"krone",cat:"krone",flav:null,name:"Die TORSÉ-Krone",short:"Die Krone",sub:"Klappverschluss in Gold",price:69,per:"",img:"c_crown",gal:["c_crown","crownbox","hand","exploded"],badge:"Neu",
-  desc:"Der goldene Klappverschluss für jede Flasche stilles Wasser. Kapsel einlegen, zuklappen, aufschrauben, drücken. Ganz aus Aluminium in Champagner-Gold, nur graviert.",det:[["Maße","Ø 44 mm, 58,8 mm hoch"],["Material","Aluminium in Champagner-Gold, Edelstahl, Silikon"],["Passt auf","stilles Wasser 0,33–0,5 l mit Hals 26/22 und die TORSÉ-Flasche"],["Club","29 € beim Start des Club-Abos"]]});
-add("set",{fam:"set",cat:"krone",flav:null,name:"Set: Krone und Flasche",short:"Krone & Flasche",sub:"Set in der Onyx-Box",price:89,per:"",img:"c_set",gal:["c_set","bottlehero","b2","hero"],badge:"Geschenk",
-  desc:"Die goldene Krone und die TORSÉ-Flasche aus dickem Glas in der Onyx-Box. Einzeln wären es 98 €. Die Kapseln wählen Sie dazu.",det:[["Inhalt","1 Krone, 1 Flasche 500 ml"],["Flasche","ca. 22,5 cm hoch, Ø 5,8 cm, Glas, spülmaschinenfest"],["Gewinde","26/22"],["Verpackung","Onyx-Klappbox mit Goldprägung"]]});
-add("verschluss",{fam:"verschluss",cat:"krone",flav:null,name:"Schraubverschluss",short:"Schraubverschluss",sub:"für die TORSÉ-Flasche",price:19,per:"",img:"c_cap",gal:["c_cap","capscene"],
-  desc:"Ein schlichter goldener Schraubverschluss, damit Sie die TORSÉ-Flasche auch ohne Krone verschließen und mitnehmen können.",det:[["Maße","ca. Ø 30 mm, 20 mm hoch"],["Material","Aluminium in Champagner-Gold, Silikondichtung"],["Gewinde","26/22"]]});
+add("flasche",{fam:"flasche",cat:"flasche",flav:null,name:"Die TORSÉ-Flasche",short:"Die TORSÉ-Flasche",sub:"500 ml Kristallglas",price:29,per:"",img:"c_bottle",gal:["c_bottle","hand","b2","hero"],
+  desc:"Eine schlanke, gerade Säule aus dickem Glas mit eingeätztem Schriftzug. Jede TORSÉ-Kapsel passt darauf.",det:[["Inhalt","500 ml"],["Maße","ca. 23 cm hoch, 6,5 cm Durchmesser"],["Material","Glas, spülmaschinenfest"],["Gewinde","26/22"]]});
+add("starter",{fam:"starter",cat:"flasche",flav:"all",name:"Starter Set",short:"Starter Set",sub:"Flasche und 9 Kapseln",price:39,per:"",img:"c_starter",gal:["c_starter","c_bottle","c_trio","hero"],badge:"Bestseller",
+  desc:"Die TORSÉ-Flasche und je drei Kapseln jeder Sorte in der Onyx-Box. Der schönste Einstieg in das Ritual.",det:[["Inhalt","1 Flasche, 9 Kapseln"],["Sorten","je 3 × Matcha, Yuzu, Sakura"],["Verpackung","Onyx-Klappbox mit Goldprägung"]]});
+add("carrousel",{fam:"carrousel",cat:"zubehoer",flav:null,name:"Le Carrousel",short:"Le Carrousel",sub:"Spender für 24 Kapseln",price:79,per:"",img:"c_car",gal:["c_car","c_trio"],
+  desc:"Drehbarer Spender aus Metall und Glas für Küche, Büro oder Rezeption. Wird leer geliefert.",det:[["Fasst","24 Kapseln"],["Material","Metall in Champagner, Glas"]]});
+add("travel-clip",{fam:"clip",cat:"zubehoer",flav:null,name:"Travel Clip",short:"Travel Clip",sub:"Röhre für 3 Kapseln",price:39,per:"",img:"c_clip",gal:["c_clip","c_trio"],
+  desc:"Schlanke Röhre aus Aluminium mit Karabiner. Drei Kapseln für unterwegs.",det:[["Fasst","3 Kapseln"],["Material","Aluminium, Karabiner"]]});
 
 const eur = n => n.toFixed(2).replace(".",",")+" €";
 const $ = s => document.querySelector(s);
@@ -677,7 +679,7 @@ function swatches(p){
 function card(p){
   return '<div class="card"><button class="card-open" data-open="'+p.id+'"><div class="ph">'+(p.badge?'<span class="badge">'+p.badge+'</span>':'')+'<img src="'+A[p.img]+'" alt="'+p.name+'" loading="lazy"></div><div class="info"><h3>'+p.short+'</h3><span class="sub">'+p.sub+'</span>'+swatches(p)+'</div></button><div class="row"><span class="price">'+eur(p.price)+'</span><button class="plus" data-quick="'+p.id+'" aria-label="'+p.short+' in den Warenkorb">+</button></div></div>';
 }
-$("#featured").innerHTML = ["set","standard-matcha","large-yuzu","krone"].map(id=>card(P[id])).join("");
+$("#featured").innerHTML = ["starter","standard-matcha","large-yuzu","flasche"].map(id=>card(P[id])).join("");
 $("#clubGrid").innerHTML = ["large-matcha","large-yuzu","large-sakura"].map(id=>card(P[id])).join("");
 
 let fCat="all", fFlav="all";
@@ -699,7 +701,7 @@ function renderProduct(id){
   const p=P[id]; if(!p){ location.hash="shop"; return; }
   cur=p; qty=1; abo=false;
   $("#crumbName").textContent=p.short;
-  $("#pLabel").textContent = p.cat==="kapseln" ? "Kapseln · für stilles Wasser" : "Krone & Set";
+  $("#pLabel").textContent = p.cat==="kapseln" ? "Kapseln · für stilles Wasser" : (p.cat==="flasche"?"Flasche & Set":"Zubehör");
   $("#pName").textContent=p.name; $("#pDesc").textContent=p.desc; $("#pPer").textContent=p.per;
   const setMain=i=>{ const k=p.gal[i]; const m=$("#pMain"); m.src=A[k]; m.alt=p.name; m.className=isCut(k)?"cut":""; document.querySelectorAll("#pThumbs button").forEach((b,j)=>b.classList.toggle("on",j===i)); };
   $("#pThumbs").innerHTML = p.gal.map((k,i)=>'<button aria-label="Bild '+(i+1)+'"><img class="'+(isCut(k)?'cut':'')+'" src="'+A[k]+'" alt=""></button>').join("");
@@ -791,6 +793,5 @@ window.addEventListener("hashchange",route);
 renderCart(); route();
 })();
 </script>
-
 </body>
 </html>

diff --git a/README.md b/README.md
@@ -1,13 +1,12 @@
 # TORSÉ Boutique
 
-Klickbarer Demo-Webshop der Marke TORSÉ: farbige Kapseln mit Ceremonial-Matcha, Yuzu und Sakura und die goldene Krone (Klappverschluss) für stilles Wasser (0,33–0,5 l, Hals 26/22).
+Klickbarer Demo-Webshop der Marke TORSÉ: Kapseln mit Ceremonial-Matcha, Yuzu und Sakura für stilles Wasser (0,33–0,5 l, Hals 26/22).
 
 Die Seite ist rein statisch (HTML, CSS, JavaScript). Warenkorb und Kasse sind nur optisch: Es werden keine Bestellungen ausgelöst und keine Daten gesendet.
 
 ## Inhalt
 
-- `index.html`: Startseite, Kollektion, Produktseiten, Ritual, Krone & Set, Club, Warenkorb, Kasse (Navigation über `#`-Anker)
-- Sortiment: Kapseln Standard (10) und Large (30) je Sorte, Krone, Set aus Krone und Flasche, Schraubverschluss
+- `index.html`: Startseite, Kollektion, Produktseiten, Ritual, Flasche & Starter Set, Club, Warenkorb, Kasse (Navigation über `#`-Anker)
 - `images/`: freigestellte Produktbilder (`.webp`) und Kampagnenbilder (`.jpg`)
 - `favicon.svg`: TORSÉ-Monogramm
 - `vercel.json`: saubere URLs und Caching für Bilder
